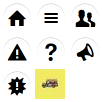
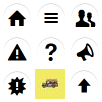
Scroll
Added scroll to top button, and a small note on the usage of online libraries.

diff --git a/index.html b/index.html
@@ -2,6 +2,9 @@
 <html>
 	<head>
 		<title>Pasama: HOME</title>
+
+		<script src="https://kit.fontawesome.com/ecd4e23ea1.js" crossorigin="anonymous"></script>
+
 		<link rel="icon" type="image/ico" href="./images/logo.ico">
 
 		<link rel="stylesheet" href="./css/stylesheet.css">
@@ -17,7 +20,7 @@
 	<style>
 		body {
 			overflow: scroll;
-			height: 750px;
+			height: 800px;
 			overflow-x: hidden;
 		}
 	</style>
@@ -151,6 +154,9 @@
 			</span>
 		</div>
 	</footer>
+
+<!--Scroll to top button-->
+		<button id="toTop"><i class="fas fa-arrow-up"></i></button>
 
 <!--DO NOT TOUCH SCRIPTS/FUNCTIONS-->
 		<script src="./htdocs/scripts.js"></script>

diff --git a/htdocs/scripts.js b/htdocs/scripts.js
@@ -50,5 +50,17 @@ function selfcredits(){ //Easter egg script for normal content pages
   }
 }
 
+//button to top function
+
+const btnToTop = document.getElementById("toTop");
+
+btnToTop.addEventListener("click", function() {
+    window.scrollTo({ //someone said jquery is better (and it is shorter too), but let's stick to js for now
+        left: 0,
+        top: 0,
+        behavior: "smooth"
+    });
+});
+
 //NOTE: So when I created this file, I'm not sure if it's considered an htdoc or mmfile??? So I placed it in htdocs with other
 //files lol, it could even be css but again, I just placed it here (htdocs folder).

diff --git a/htdocs/about.html b/htdocs/about.html
@@ -2,6 +2,7 @@
 <html>
 	<head>
 		<title>Pasama: GENERAL</title>
+		<script src="https://kit.fontawesome.com/ecd4e23ea1.js" crossorigin="anonymous"></script>
 		<link rel="icon" type="image/ico" href="../images/logo.ico">
 
 		<link rel="stylesheet" href="../css/stylesheet.css">
@@ -147,6 +148,10 @@
 			</span>
 		</div>
 	</footer>
+	
+<!--Scroll to top button-->
+		<button id="toTop"><i class="fas fa-arrow-up"></i></button>
+
 		<!--DO NOT TOUCH-->
 		<script src="../htdocs/scripts.js"></script> <!--Created a js file instead-->
 	</body>

diff --git a/htdocs/general.html b/htdocs/general.html
@@ -2,6 +2,7 @@
 <html>
 	<head>
 		<title>Pasama: GENERAL</title>
+		<script src="https://kit.fontawesome.com/ecd4e23ea1.js" crossorigin="anonymous"></script>
 		<link rel="icon" type="image/ico" href="../images/logo.ico">
 
 		<link rel="stylesheet" href="../css/stylesheet.css">
@@ -223,6 +224,10 @@
 			</span>
 		</div>
 	</footer>
+
+<!--Scroll to top button-->
+		<button id="toTop"><i class="fas fa-arrow-up"></i></button>
+
 		<!--DO NOT TOUCH-->
 		<script src="../htdocs/scripts.js"></script> <!--Created a js file instead-->
 	</body>

diff --git a/htdocs/covid.html b/htdocs/covid.html
@@ -2,6 +2,7 @@
 <html>
 	<head>
 		<title>Pasama: COVID</title>
+		<script src="https://kit.fontawesome.com/ecd4e23ea1.js" crossorigin="anonymous"></script>
 		<link rel="icon" type="image/ico" href="../images/logo.ico">
 
 		<link rel="stylesheet" href="../css/stylesheet.css">
@@ -252,6 +253,10 @@
 			</span>
 		</div>
 	</footer>
+
+<!--Scroll to top button-->
+		<button id="toTop"><i class="fas fa-arrow-up"></i></button>
+
 		<!--DO NOT TOUCH-->
 		<script src="../htdocs/scripts.js"></script> <!--Created a js file instead-->
 	</body>

diff --git a/htdocs/crime.html b/htdocs/crime.html
@@ -2,6 +2,7 @@
 <html>
 	<head>
 		<title>Pasama: CRIME</title>
+		<script src="https://kit.fontawesome.com/ecd4e23ea1.js" crossorigin="anonymous"></script>
 		<link rel="icon" type="image/ico" href="../images/logo.ico">
 
 		<link rel="stylesheet" href="../css/stylesheet.css">
@@ -202,6 +203,10 @@
 			</span>
 		</div>
 	</footer>
+
+<!--Scroll to top button-->
+		<button id="toTop"><i class="fas fa-arrow-up"></i></button>
+
 		<!--DO NOT TOUCH-->
 		<script src="../htdocs/scripts.js"></script> <!--Created a js file instead-->
 	</body>

diff --git a/htdocs/politics.html b/htdocs/politics.html
@@ -2,6 +2,7 @@
 <html>
 	<head>
 		<title>Pasama: POLITICS</title>
+		<script src="https://kit.fontawesome.com/ecd4e23ea1.js" crossorigin="anonymous"></script>
 		<link rel="icon" type="image/ico" href="../images/logo.ico">
 
 		<link rel="stylesheet" href="../css/stylesheet.css">
@@ -265,6 +266,9 @@
 			</span>
 		</div>
 	</footer>
+
+<!--Scroll to top button-->
+		<button id="toTop"><i class="fas fa-arrow-up"></i></button>
 
 		<!--DO NOT TOUCH-->
 		<script src="../htdocs/scripts.js"></script> <!--Created a js file instead-->

diff --git a/css/stylesheet.css b/css/stylesheet.css
@@ -191,6 +191,21 @@ a {
   right: 125px;
 }
 
+#toTop{
+	position: fixed;
+    height: 75px;
+    width: 75px;
+    bottom: 60px;
+    right: 10px;
+    font-size: 50px;
+    color: white;
+    border: none;
+    border-radius: 50%;
+    background-color: rgb( 59, 89, 152);
+    box-shadow: 0 0 10px rgba( 0, 0, 0, 0.5);
+    cursor: pointer;
+}
+
 .covid-topic{
   background: url('../images/topics.png') no-repeat -104px -229px;
 	width: 100px;

diff --git a/README.md b/README.md
@@ -9,11 +9,18 @@ summary in the form of a paragraph for each news bit. Dedicated to serving true,
 
 Bugs be expected, easter eggs be found!
 
+#### WIFI RECOMMENDED
+I used an online library for the scroll-to-top button, due to sprites being annoying when trying to resize them, and
+a sole image for a simple arrow-up icon being impractical. Thus, I just used an online library. If you aren't connected to
+wifi, the scroll button will still work but the arrow itself won't be there anymore.
+
 ## Testing Site:
-1. Github Pages (**New Domain!**): [Here](https://www.pasama.ml/)
+1. Github Pages: [Here](https://www.pasama.ml/)
 
 ## READ VERY IMPORTANT (TEST SITE)
-As of writing, the site is still under testing and is fairly new. Thus, chrome (and other browsers) deemed it fit to smack it with a "red alert", which tells all users that the site is "unsafe". **It is not**, and can be proven by the code that the site doesn't even gather your data at all. This actually already happened before in an old release, when the site was newly launched. This was resolved, until it happened again this time due to me changing the domain from github's default provided domain to a custom made one. I'm hoping it'll eventually be gone but for now, follow these steps when you experience a red alert:
+As of writing, what I call as "red-alerts" that chrome pushes onto sites that are considered "dangerous" don't appear anymore.
+In my last major release (in the last repo), my site was plagued with it at first. While it doesn't appear anymore, if you do happen to
+stumble upon a red-alert on my site (it's essentially a pop-up warning you the site is "dangerous"), follow these steps:
 
 #### RED ALERT STEPS
 1. Click the "Details" button
